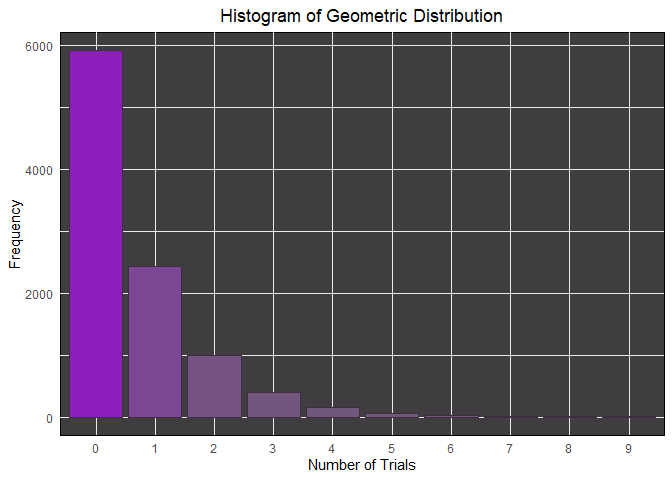
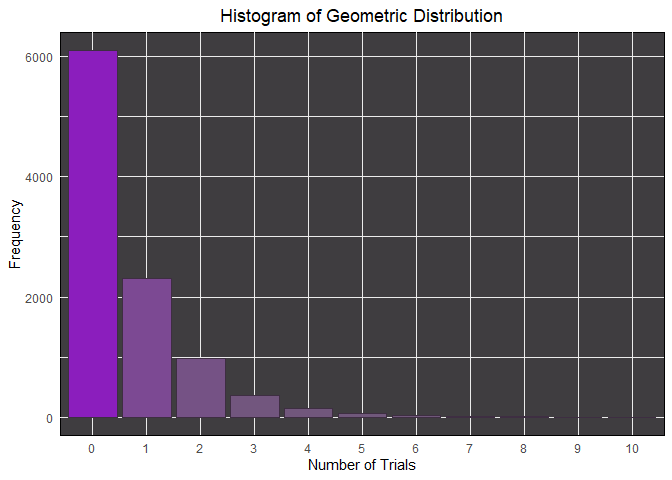
changes sample

diff --git a/SA1-Lansangan-Dacanay/LANSANGAN_DACANAY-SA1.md b/SA1-Lansangan-Dacanay/LANSANGAN_DACANAY-SA1.md
@@ -309,13 +309,13 @@ simulated_variance <- var(simulated)
 print(paste("Mean of the simulated experiment: ", simulated_mean))
 ```
 
-    ## [1] "Mean of the simulated experiment:  0.6866"
+    ## [1] "Mean of the simulated experiment:  0.6512"
 
 ``` r
 print(paste("Variance of the simulated experiment: ", simulated_variance))
 ```
 
-    ## [1] "Variance of the simulated experiment:  1.14329476947695"
+    ## [1] "Variance of the simulated experiment:  1.08984754475448"
 
 #### Proving the Markov property holds in geometeric sequence:
 
@@ -499,8 +499,8 @@ simulated_table
 ```
 
     ## simulated
-    ##    0    1    2    3    4    5    6    7    8    9 
-    ## 5905 2437  994  397  163   57   28   11    4    4
+    ##    0    1    2    3    4    5    6    7    8    9   10 
+    ## 6098 2313  981  361  145   62   26    8    3    2    1
 
 Note that X is assumed to be equals to the nth trial. So, X=1 means that
 it’s the success that happened on the first try. In the simulation, the
@@ -515,7 +515,7 @@ prob_for_xgreater3 <- (sum(simulated_table[names(simulated_table) >= 3]) / sum(s
 prob_for_xeq4 / prob_for_xgreater3
 ```
 
-    ## [1] 0.5978916
+    ## [1] 0.5947282
 
 #### For P(X=1)
 
@@ -524,7 +524,7 @@ prob_for_xeq1 <- (sum(simulated_table[names(simulated_table) == 0]) / sum(simula
 prob_for_xeq1
 ```
 
-    ## [1] 0.5905
+    ## [1] 0.6098
 
 ##### For P(X=5\|X\>3):
 
@@ -533,7 +533,7 @@ prob_for_xeq5 <- (sum(simulated_table[names(simulated_table) == 4]) / sum(simula
 prob_for_xeq5 / prob_for_xgreater3
 ```
 
-    ## [1] 0.2454819
+    ## [1] 0.2388797
 
 ##### For P(X=2)
 
@@ -542,12 +542,10 @@ prob_for_xeq2 <- (sum(simulated_table[names(simulated_table) == 1]) / sum(simula
 prob_for_xeq2
 ```
 
-    ## [1] 0.2437
+    ## [1] 0.2313
 
 Both of which are relatively close to their respective partner and their
 theoretical equivalent.
 
 Therefore validating that the Markov memoryless property also holds on
 our simulation.
-
-Sample
